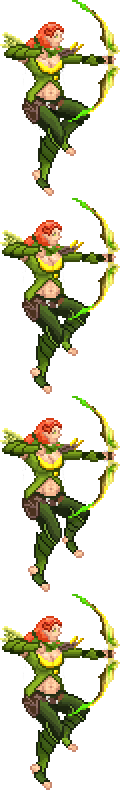
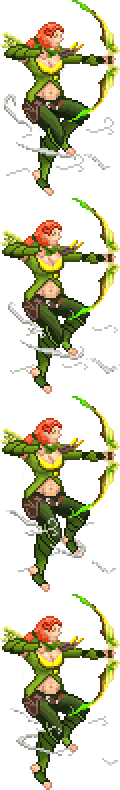
Windranger Animation 2
Added wind to the animation, looks a bit janky with current movement speed but will resprite if necessary when final movement AI is implemented. Also added the ChooseFrame and SpawnDust methods - SpawnDust is currently unused.

diff --git a/dotaMod/General/projectilestuffs/minions/WindrangerCape.cs b/dotaMod/General/projectilestuffs/minions/WindrangerCape.cs
@@ -50,11 +50,11 @@ namespace dotaMod.General.projectilestuffs.minions      //PLEASE DON'T DELETE ME
             targetY = player.position.Y - 200;
             selfX = projectile.position.X;
             selfY = projectile.position.Y;
-            Main.NewText("I have set targets: X=" + targetX + "Y=" + targetY + "selfX=" + selfX);
-            Main.NewText("My Velocity X=" + projectile.velocity.X + "Y=" + projectile.velocity.Y);
+            //Main.NewText("I have set targets: X=" + targetX + "Y=" + targetY + "selfX=" + selfX);
+            //Main.NewText("My Velocity X=" + projectile.velocity.X + "Y=" + projectile.velocity.Y);
             if (selfX < targetX)
             {
-                Main.NewText("I am larger");
+                //Main.NewText("I am larger");
                 projectile.spriteDirection = projectile.direction = 1;
                 if (projectile.velocity.X > (maxVel - velGain))
                 {
@@ -80,7 +80,7 @@ namespace dotaMod.General.projectilestuffs.minions      //PLEASE DON'T DELETE ME
             }
             else
             {
-                Main.NewText("I am smaller");
+                //Main.NewText("I am smaller");
                 projectile.spriteDirection = projectile.direction = -1;
                 if (projectile.velocity.X < (maxVel - velGain))
                 {
@@ -106,7 +106,7 @@ namespace dotaMod.General.projectilestuffs.minions      //PLEASE DON'T DELETE ME
 
             if (selfY < targetY)
             {
-                Main.NewText("I am high");
+                //Main.NewText("I am high");
                 if (projectile.velocity.Y > (maxVel - velGain))
                 {
 
@@ -130,7 +130,7 @@ namespace dotaMod.General.projectilestuffs.minions      //PLEASE DON'T DELETE ME
             }
             else
             {
-                Main.NewText("I am low");
+                //Main.NewText("I am low");
                 if (projectile.velocity.Y < (maxVel - velGain))
                 {
 
@@ -153,17 +153,6 @@ namespace dotaMod.General.projectilestuffs.minions      //PLEASE DON'T DELETE ME
 
             }
 
-            //stay on each of the 4 frames for 20 ticks each.
-
-            if (++projectile.frameCounter >= 20)
-            {
-                projectile.frameCounter = 0;
-                if (++projectile.frame >= 4)
-                {
-                    projectile.frame = 0;
-                }
-            }
-
         }
 
         public override void CheckActive()
@@ -184,6 +173,20 @@ namespace dotaMod.General.projectilestuffs.minions      //PLEASE DON'T DELETE ME
 
             }
 
+        }
+            
+        //stay on each frame for 20 ticks, then cycle to next frame. 
+
+        public override void ChooseFrame()
+        {
+            if (++projectile.frameCounter >= 20)        
+            {
+                projectile.frameCounter = 0;
+                if (++projectile.frame >= 4)            
+                {
+                    projectile.frame = 0;
+                }
+            }
         }
 
     }

diff --git a/dotaMod/General/projectilestuffs/minions/BaseMinion.cs b/dotaMod/General/projectilestuffs/minions/BaseMinion.cs
@@ -16,11 +16,17 @@ namespace dotaMod.General.projectilestuffs.minions
 		{
 			CheckActive();
 			Behavior();
+			ChooseFrame();
+			SpawnDust();
 		}
 
 		public abstract void CheckActive();
 
 		public abstract void Behavior();
+
+		public virtual void ChooseFrame() { }
+
+		public virtual void SpawnDust() { }
 
 	}
 
